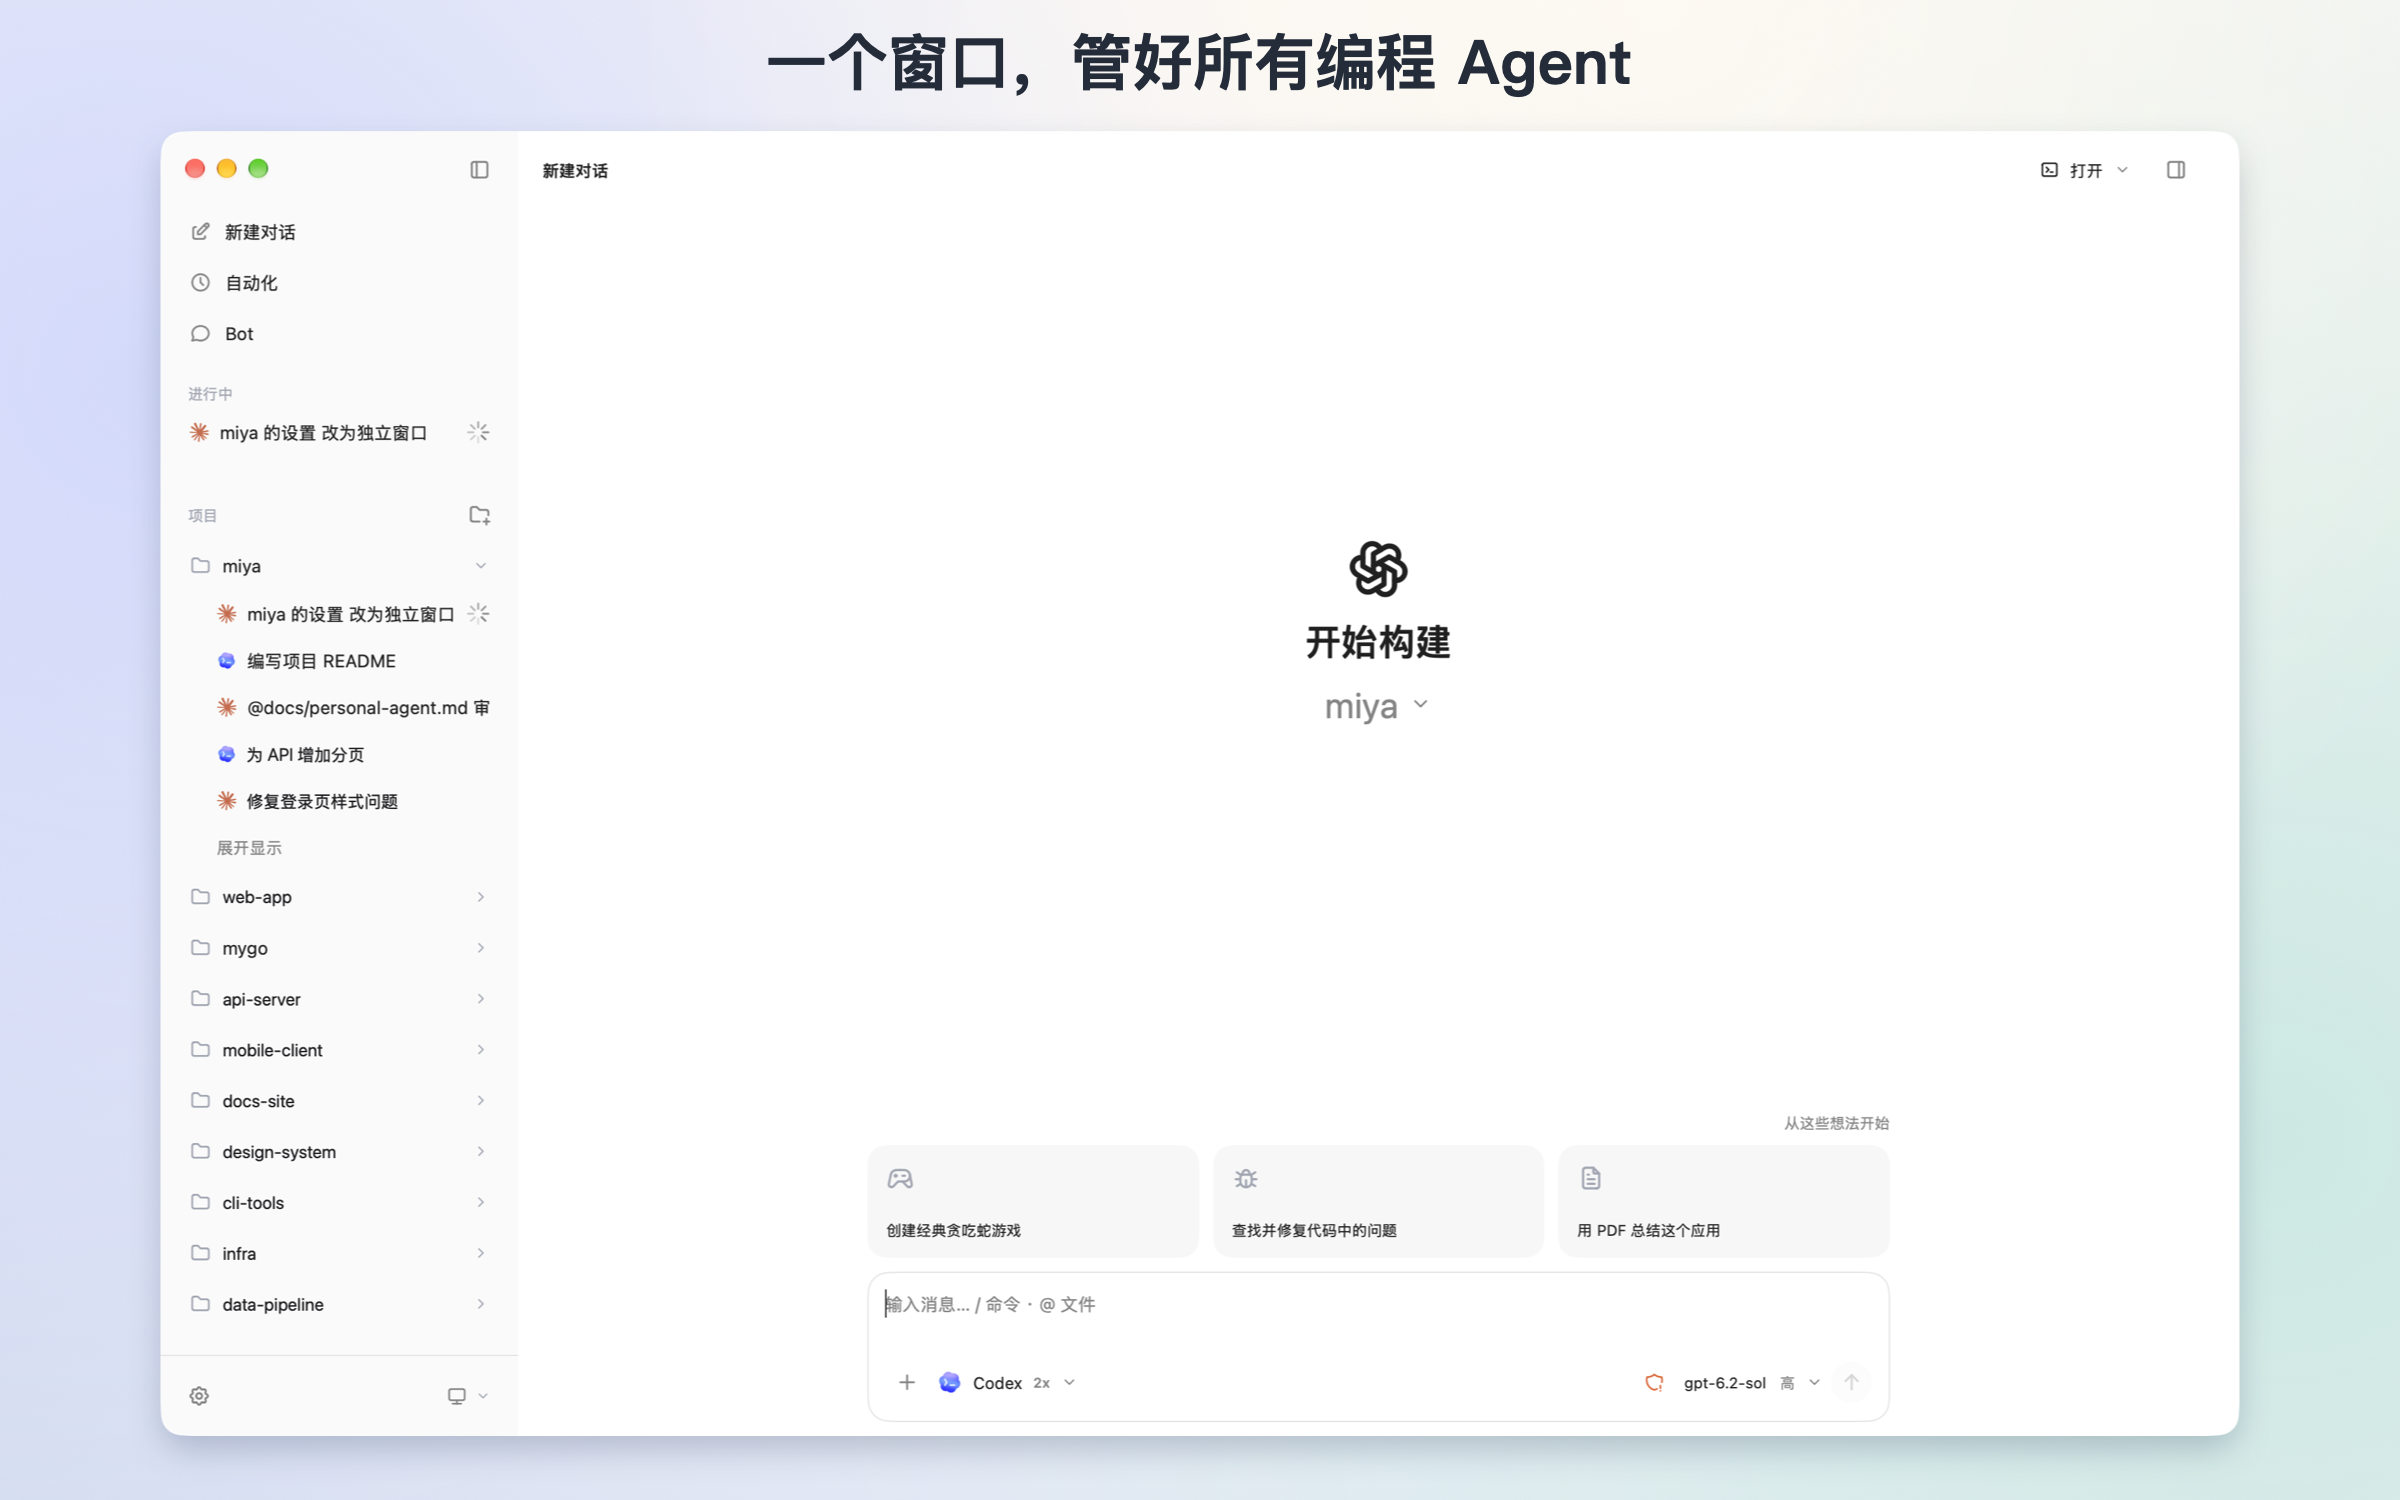
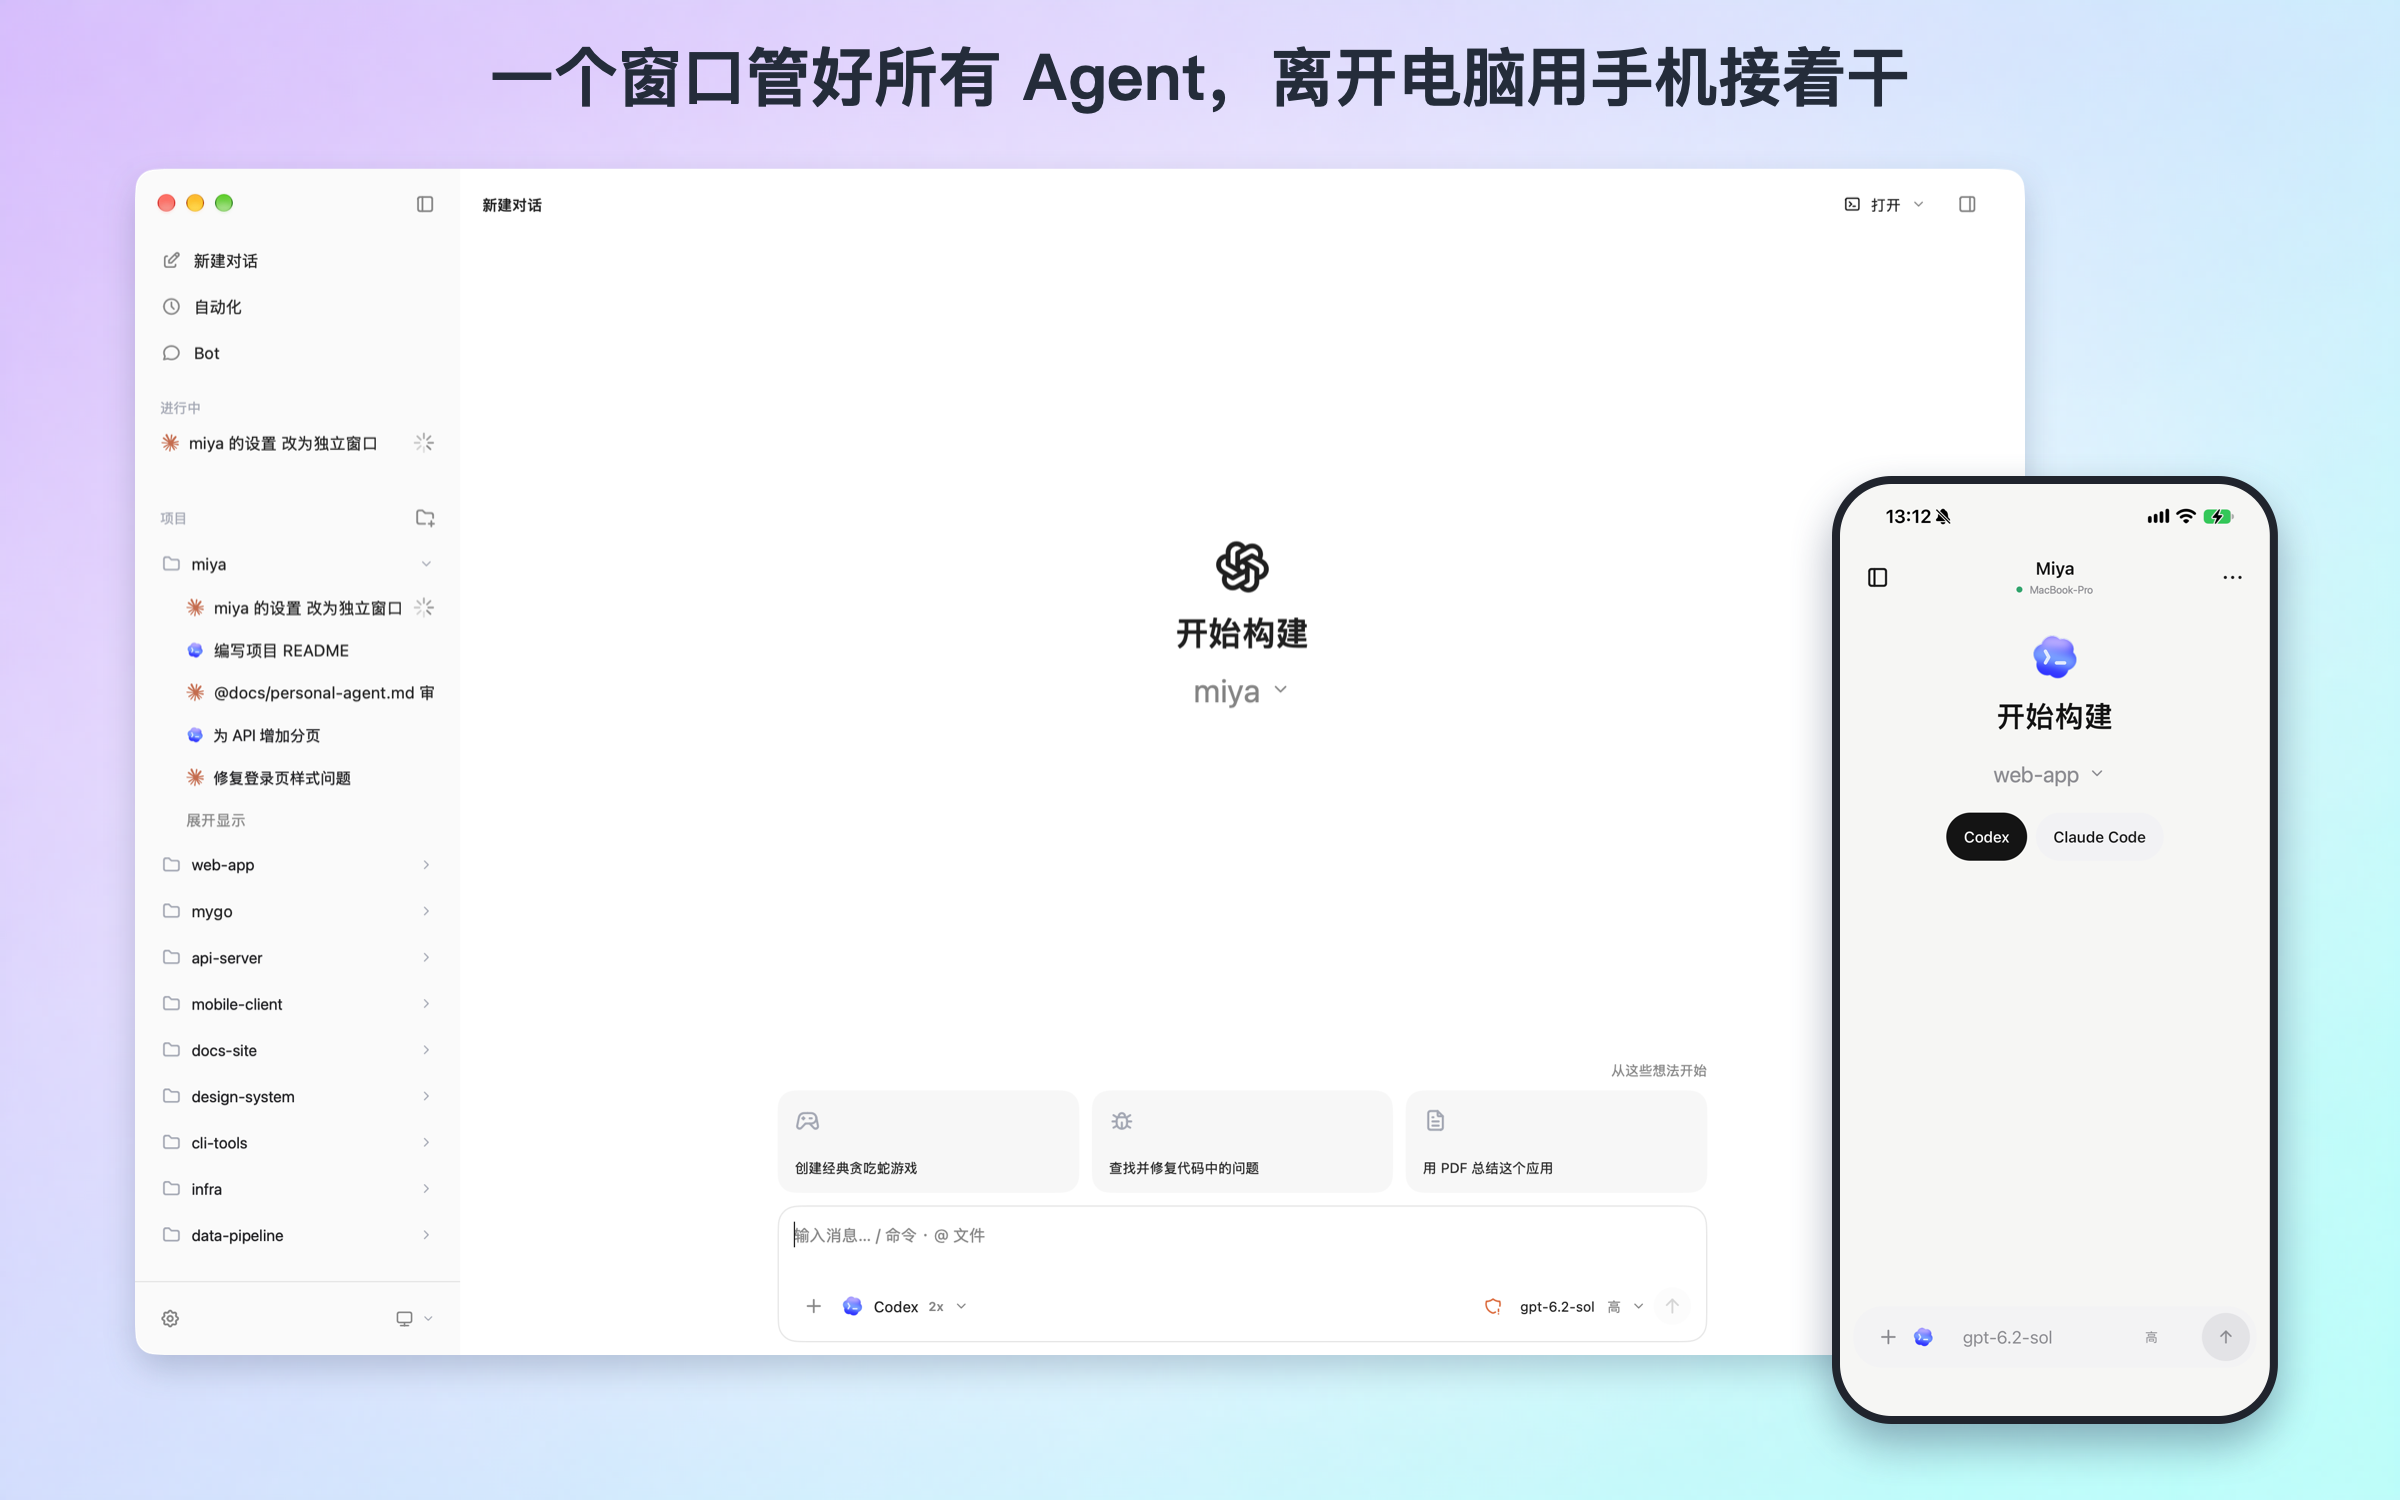
docs: show desktop and phone together in README hero
The hero image now pairs the desktop window with the iPhone app, both
real redacted screenshots, on the same background as the phone image.

diff --git a/README.md b/README.md
@@ -11,7 +11,7 @@
 [![Package](https://github.com/daodao97/miya/actions/workflows/package.yml/badge.svg)](https://github.com/daodao97/miya/actions/workflows/package.yml)
 ![Platforms](https://img.shields.io/badge/platform-macOS%20·%20Linux%20server%20·%20iOS%20·%20Android-6c5ce7)
 
-<img src="assets/readme/hero.png" alt="Miya 主窗口：左边是项目和进行中的对话，右边是新建对话" />
+<img src="assets/readme/hero.png" alt="Miya 的桌面主窗口和手机端" />
 
 </div>
 
